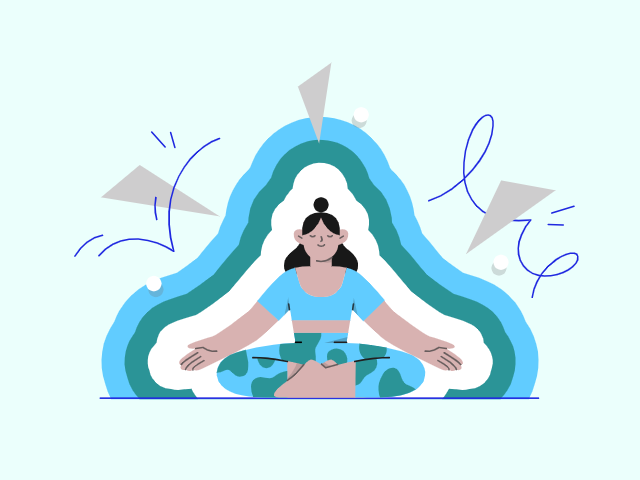
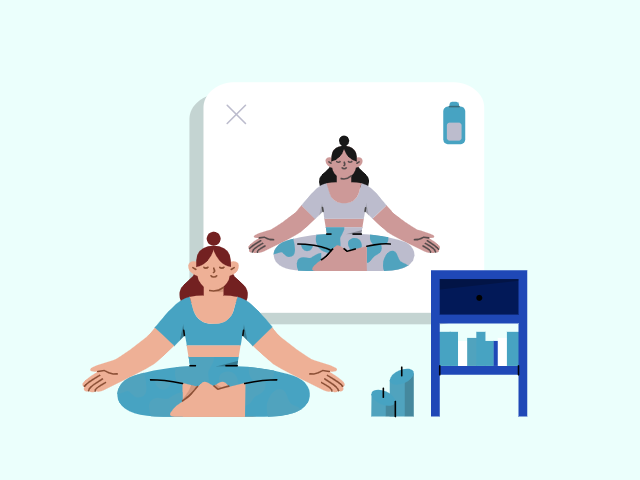
style: update photos

diff --git a/myapp/lib/meditaionmethods.dart b/myapp/lib/meditaionmethods.dart
@@ -36,7 +36,7 @@ class _meditaionmethods_pageState extends State<meditaionmethods_page> {
                     fontWeight: FontWeight.w400),
               ),
               Image.asset(
-                'lib/images/newbg.png',
+                'lib/images/leaf.png',
                 height: 72,
               )
             ],
@@ -54,7 +54,7 @@ class _meditaionmethods_pageState extends State<meditaionmethods_page> {
           color: Colors.black, //change your color here
         ),
         elevation: 0.00,
-        backgroundColor: Color.fromARGB(255, 134, 208, 203),
+        backgroundColor: const Color.fromARGB(255, 134, 208, 203),
       ),
       backgroundColor: const Color.fromARGB(251, 241, 255, 252),
       body: SingleChildScrollView(
@@ -77,9 +77,9 @@ class _meditaionmethods_pageState extends State<meditaionmethods_page> {
                     height: 175,
                     width: 150,
                     decoration: BoxDecoration(
-                        color: const Color.fromARGB(251, 215, 225, 238),
+                        color: Color.fromARGB(255, 175, 213, 210),
                         border: Border.all(
-                          color: const Color.fromARGB(255, 215, 225, 238),
+                          color: const Color.fromARGB(255, 175, 213, 210),
                           width: 5,
                         ),
                         borderRadius: BorderRadius.circular(12)),
@@ -105,7 +105,7 @@ class _meditaionmethods_pageState extends State<meditaionmethods_page> {
                                   Theme.of(context).textTheme.displayLarge,
                               color: const Color.fromARGB(255, 70, 66, 68),
                               fontSize: 13,
-                              fontWeight: FontWeight.w300,
+                              fontWeight: FontWeight.w400,
                             ),
                           ),
                         ],
@@ -129,9 +129,9 @@ class _meditaionmethods_pageState extends State<meditaionmethods_page> {
                     height: 175,
                     width: 150,
                     decoration: BoxDecoration(
-                        color: const Color.fromARGB(251, 215, 225, 238),
+                        color: Color.fromARGB(255, 175, 213, 210),
                         border: Border.all(
-                          color: const Color.fromARGB(255, 215, 225, 238),
+                          color: const Color.fromARGB(255, 175, 213, 210),
                           width: 5,
                         ),
                         borderRadius: BorderRadius.circular(12)),
@@ -143,7 +143,7 @@ class _meditaionmethods_pageState extends State<meditaionmethods_page> {
                         children: [
                           //image
                           Image.asset(
-                            'lib/images/med2.png',
+                            'lib/images/m2.png',
                             height: 90,
                           ),
                           const SizedBox(
@@ -158,7 +158,7 @@ class _meditaionmethods_pageState extends State<meditaionmethods_page> {
                                   Theme.of(context).textTheme.displayLarge,
                               color: const Color.fromARGB(255, 70, 66, 68),
                               fontSize: 13,
-                              fontWeight: FontWeight.w300,
+                              fontWeight: FontWeight.w400,
                             ),
                           ),
                         ],
@@ -187,9 +187,9 @@ class _meditaionmethods_pageState extends State<meditaionmethods_page> {
                     height: 175,
                     width: 150,
                     decoration: BoxDecoration(
-                        color: const Color.fromARGB(251, 215, 225, 238),
+                        color: Color.fromARGB(255, 175, 213, 210),
                         border: Border.all(
-                          color: const Color.fromARGB(255, 215, 225, 238),
+                          color: const Color.fromARGB(255, 175, 213, 210),
                           width: 5,
                         ),
                         borderRadius: BorderRadius.circular(12)),
@@ -215,7 +215,7 @@ class _meditaionmethods_pageState extends State<meditaionmethods_page> {
                                   Theme.of(context).textTheme.displayLarge,
                               color: const Color.fromARGB(255, 70, 66, 68),
                               fontSize: 13,
-                              fontWeight: FontWeight.w300,
+                              fontWeight: FontWeight.w400,
                             ),
                           ),
                         ],
@@ -238,9 +238,9 @@ class _meditaionmethods_pageState extends State<meditaionmethods_page> {
                     height: 175,
                     width: 150,
                     decoration: BoxDecoration(
-                        color: const Color.fromARGB(251, 215, 225, 238),
+                        color: Color.fromARGB(255, 175, 213, 210),
                         border: Border.all(
-                          color: const Color.fromARGB(255, 215, 225, 238),
+                          color: const Color.fromARGB(255, 175, 213, 210),
                           width: 5,
                         ),
                         borderRadius: BorderRadius.circular(12)),
@@ -267,7 +267,7 @@ class _meditaionmethods_pageState extends State<meditaionmethods_page> {
                                   Theme.of(context).textTheme.displayLarge,
                               color: const Color.fromARGB(255, 70, 66, 68),
                               fontSize: 13,
-                              fontWeight: FontWeight.w300,
+                              fontWeight: FontWeight.w400,
                             ),
                           ),
                         ],
@@ -280,7 +280,8 @@ class _meditaionmethods_pageState extends State<meditaionmethods_page> {
           ),
 
           Padding(
-            padding: const EdgeInsets.only(left: 10, right: 10, top: 20),
+            padding:
+                const EdgeInsets.only(left: 10, right: 10, top: 20, bottom: 20),
             child: Row(
               mainAxisAlignment: MainAxisAlignment.center,
               children: [
@@ -296,9 +297,9 @@ class _meditaionmethods_pageState extends State<meditaionmethods_page> {
                     height: 175,
                     width: 150,
                     decoration: BoxDecoration(
-                        color: const Color.fromARGB(251, 215, 225, 238),
+                        color: Color.fromARGB(255, 175, 213, 210),
                         border: Border.all(
-                          color: const Color.fromARGB(255, 215, 225, 238),
+                          color: const Color.fromARGB(255, 175, 213, 210),
                           width: 5,
                         ),
                         borderRadius: BorderRadius.circular(12)),
@@ -309,7 +310,7 @@ class _meditaionmethods_pageState extends State<meditaionmethods_page> {
                         children: [
                           //image
                           Image.asset(
-                            'lib/images/med5.png',
+                            'lib/images/med3.png',
                             height: 90,
                           ),
                           const SizedBox(
@@ -324,7 +325,7 @@ class _meditaionmethods_pageState extends State<meditaionmethods_page> {
                                   Theme.of(context).textTheme.displayLarge,
                               color: const Color.fromARGB(255, 70, 66, 68),
                               fontSize: 13,
-                              fontWeight: FontWeight.w300,
+                              fontWeight: FontWeight.w400,
                             ),
                           ),
                         ],
@@ -347,9 +348,9 @@ class _meditaionmethods_pageState extends State<meditaionmethods_page> {
                     height: 175,
                     width: 150,
                     decoration: BoxDecoration(
-                        color: const Color.fromARGB(251, 215, 225, 238),
+                        color: Color.fromARGB(255, 175, 213, 210),
                         border: Border.all(
-                          color: const Color.fromARGB(255, 215, 225, 238),
+                          color: const Color.fromARGB(255, 175, 213, 210),
                           width: 5,
                         ),
                         borderRadius: BorderRadius.circular(12)),
@@ -376,7 +377,7 @@ class _meditaionmethods_pageState extends State<meditaionmethods_page> {
                                   Theme.of(context).textTheme.displayLarge,
                               color: const Color.fromARGB(255, 70, 66, 68),
                               fontSize: 13,
-                              fontWeight: FontWeight.w300,
+                              fontWeight: FontWeight.w400,
                             ),
                           ),
                         ],

diff --git a/myapp/lib/breathawarenessstep6.dart b/myapp/lib/breathawarenessstep6.dart
@@ -1,5 +1,6 @@
 import 'package:app/breathawarenessmed.dart';
 import 'package:app/button.dart';
+import 'package:app/meditaionmethods.dart';
 import 'package:flutter/material.dart';
 import 'package:google_fonts/google_fonts.dart';
 
@@ -153,7 +154,7 @@ class _breathawarenessstep6_pageState extends State<breathawarenessstep6_page> {
                     Navigator.push(
                       context,
                       MaterialPageRoute(
-                          builder: (context) => (breathawarenessmed_page())),
+                          builder: (context) => (meditaionmethods_page())),
                     );
                   }
                 },

diff --git a/myapp/lib/breathawarenessstep5.dart b/myapp/lib/breathawarenessstep5.dart
@@ -72,7 +72,7 @@ class _breathawarenessstep5_pageState extends State<breathawarenessstep5_page> {
                   children: [
                     //image
                     Image.asset(
-                      'lib/images/step18.png',
+                      'lib/images/step18 .png',
                       height: 240,
                     )
                   ],

diff --git a/myapp/lib/breathawarenessstep3.dart b/myapp/lib/breathawarenessstep3.dart
@@ -72,7 +72,7 @@ class _breathawarenessstep3_pageState extends State<breathawarenessstep3_page> {
                   children: [
                     //image
                     Image.asset(
-                      'lib/images/step12.png',
+                      'lib/images/step13.png',
                       height: 240,
                     )
                   ],

diff --git a/myapp/lib/breathawarenessstep4.dart b/myapp/lib/breathawarenessstep4.dart
@@ -72,7 +72,7 @@ class _breathawarenessstep4_pageState extends State<breathawarenessstep4_page> {
                   children: [
                     //image
                     Image.asset(
-                      'lib/images/step13.png',
+                      'lib/images/step14.png',
                       height: 240,
                     )
                   ],

diff --git a/myapp/lib/breathawarenessstep2.dart b/myapp/lib/breathawarenessstep2.dart
@@ -72,7 +72,7 @@ class _breathawarenessstep2_pageState extends State<breathawarenessstep2_page> {
                   children: [
                     //image
                     Image.asset(
-                      'lib/images/step4.png',
+                      'lib/images/step5.png',
                       height: 240,
                     )
                   ],

diff --git a/myapp/lib/main.dart b/myapp/lib/main.dart
@@ -14,7 +14,7 @@ class MyApp extends StatelessWidget {
     return const MaterialApp(
       debugShowCheckedModeBanner: false,
       //home:loading_page()
-      home: Diary(),
+      home: loading_page(),
     );
   }
 }
